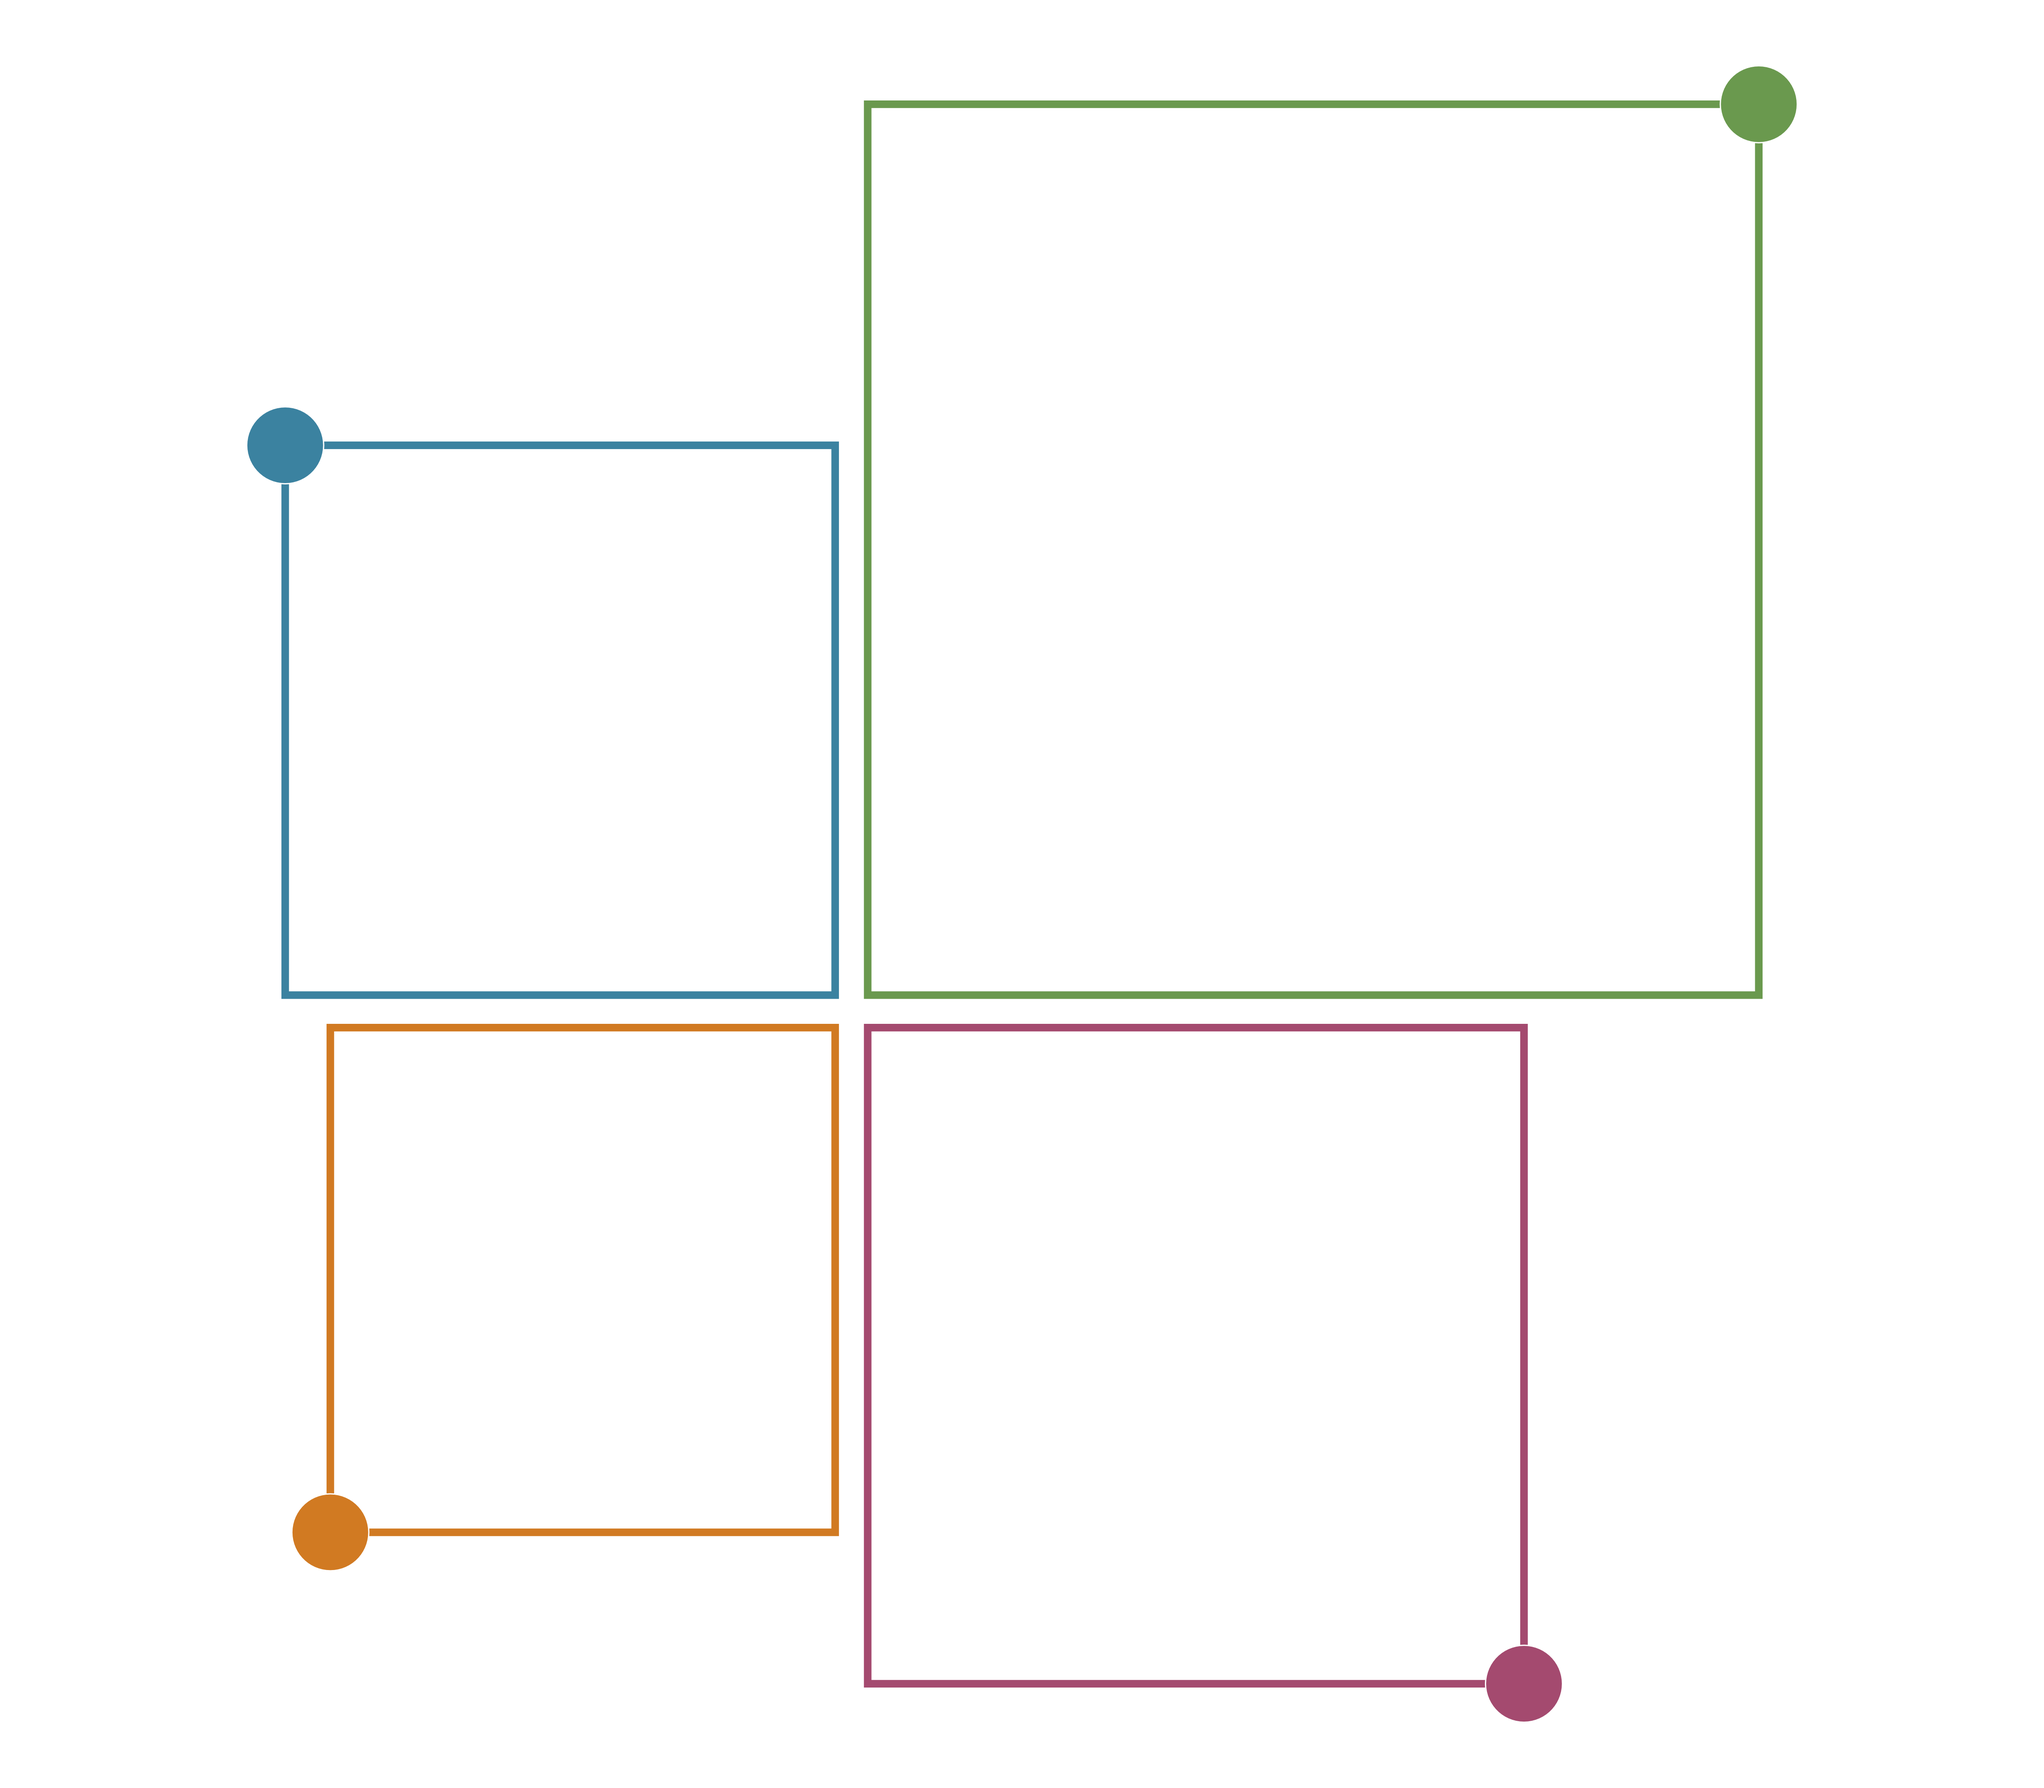
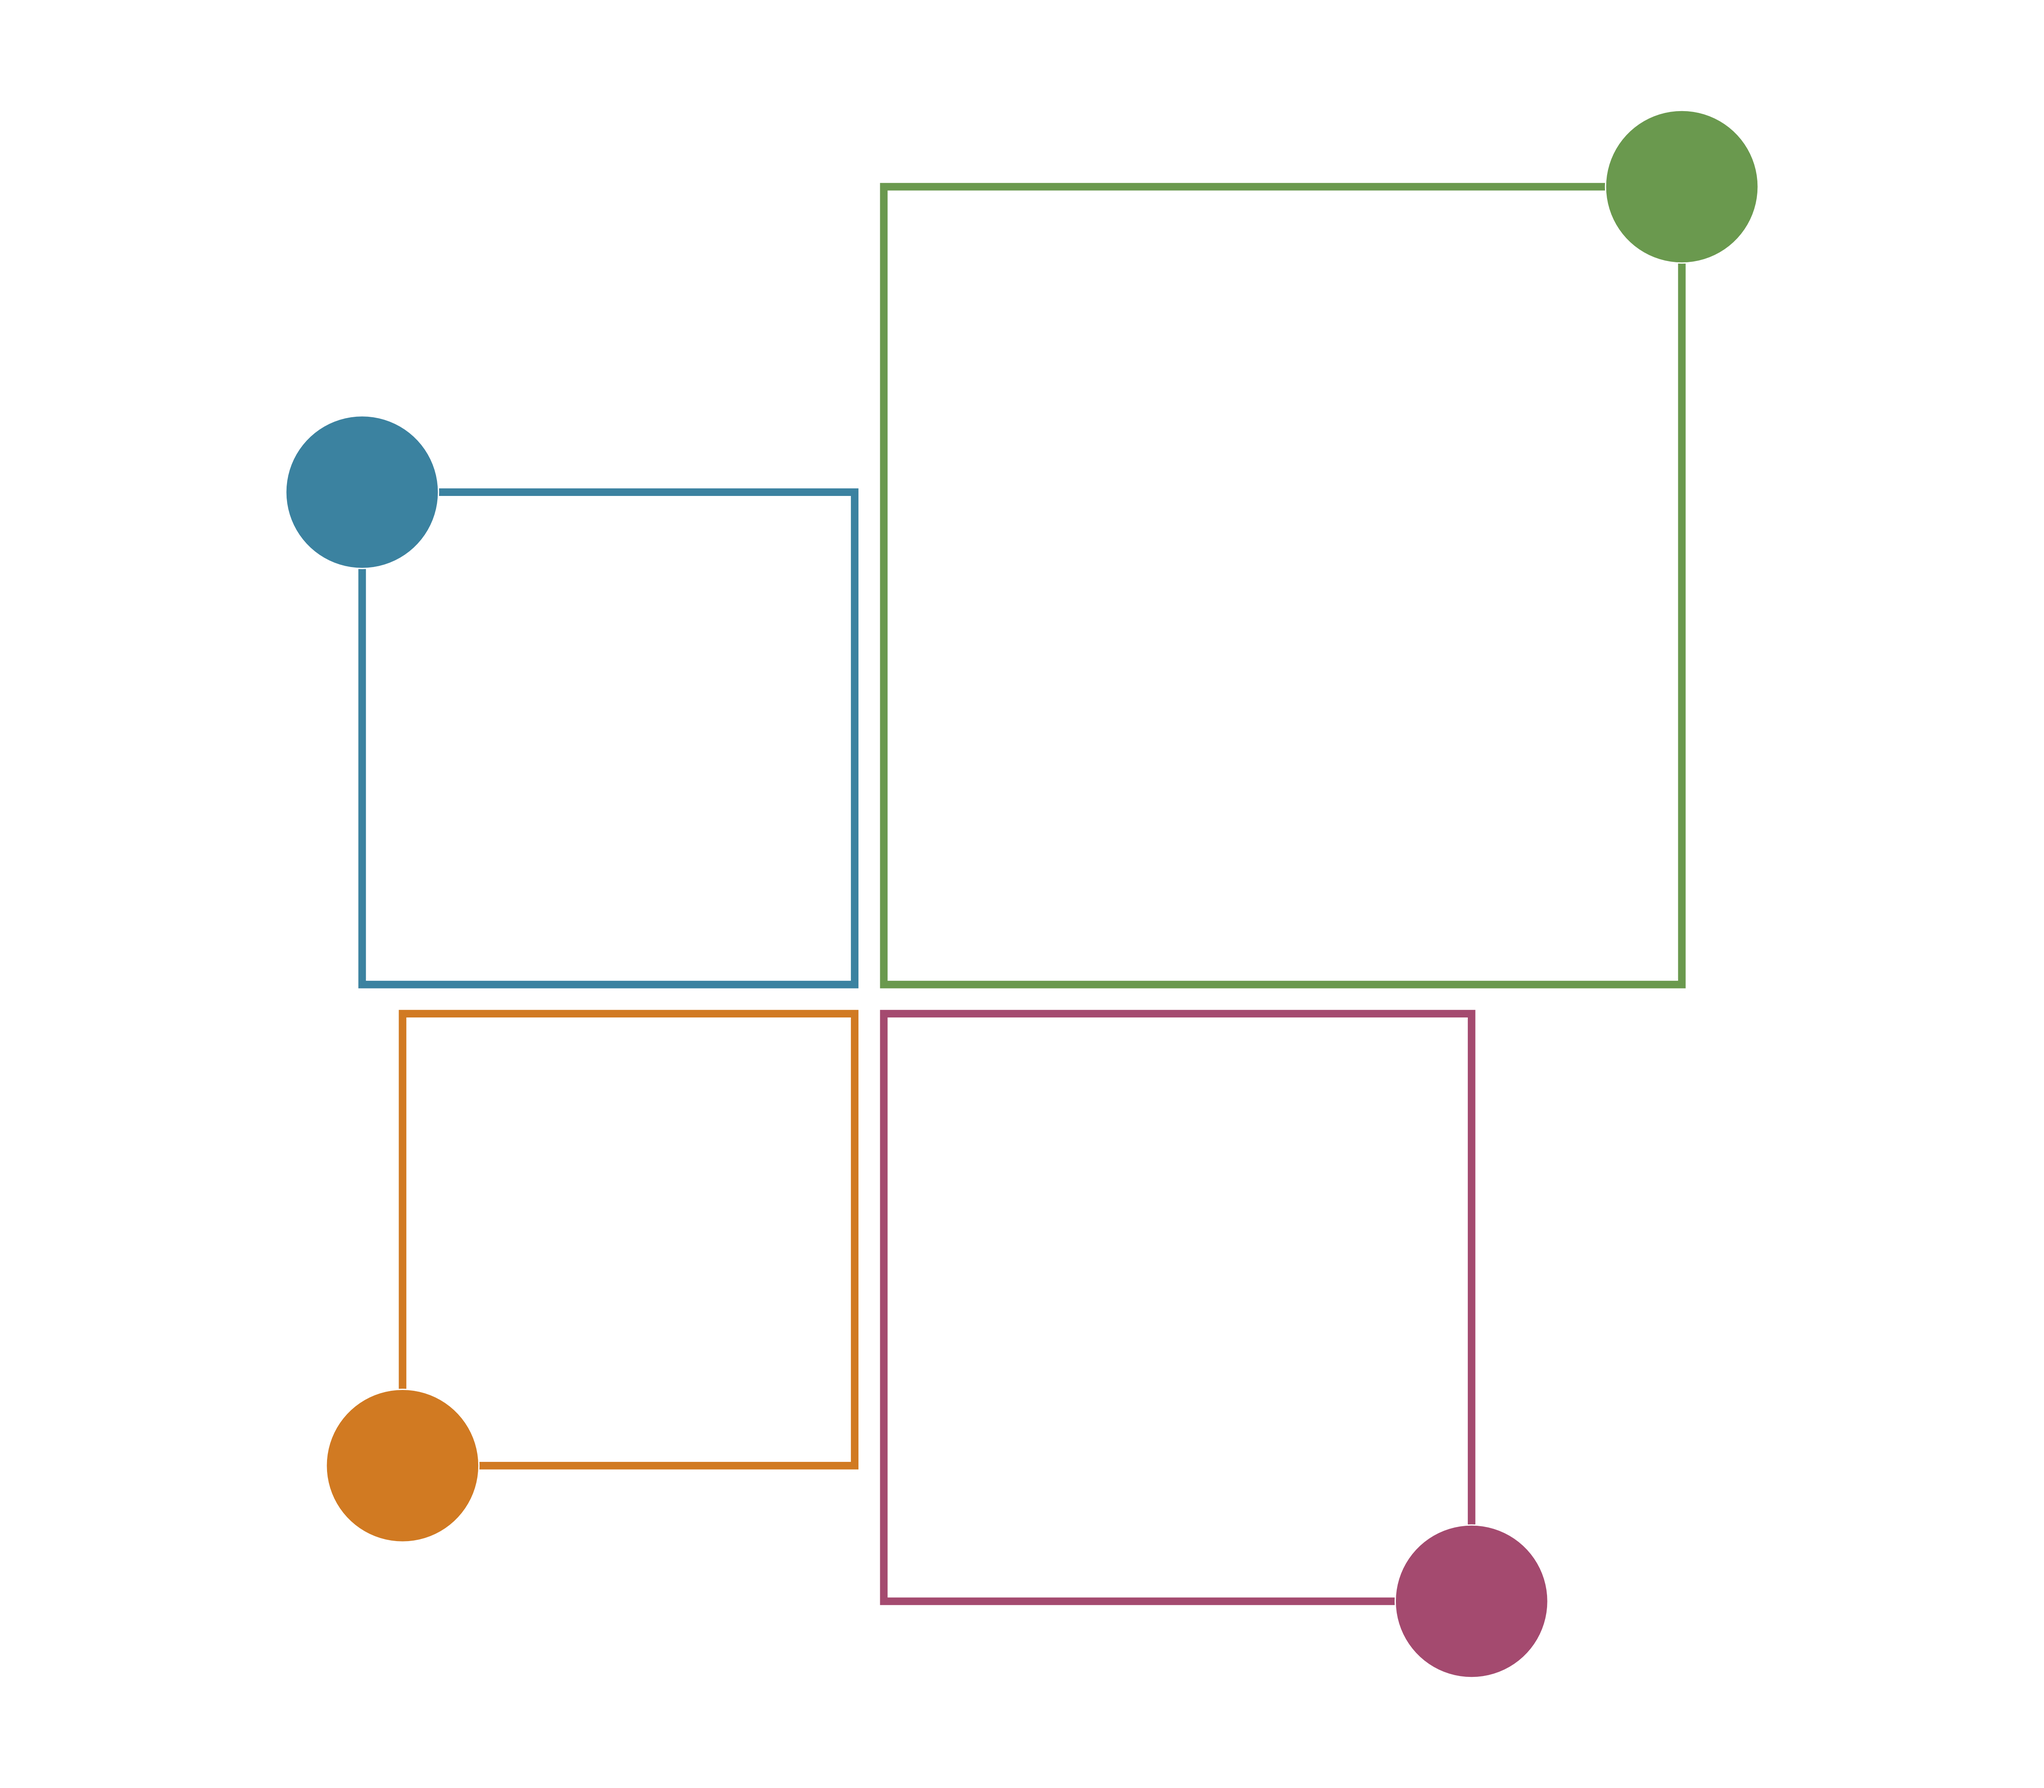
Deploying to gh-pages from @ hriisalu/rectangler@43adb80750088b9f6f18ad6957780608c4752595 🚀

Changed region(s): [[0.125, 0.0312, 0.875, 0.9669]]

diff --git a/articles/rectangler.html b/articles/rectangler.html
@@ -636,7 +636,7 @@ type.</p>
 <span>  <span class="fu"><a href="../reference/rect_annotation.html">rect_annotation</a></span><span class="op">(</span></span>
 <span>    label_col <span class="op">=</span> <span class="st">"annotation"</span>,</span>
 <span>    position <span class="op">=</span> <span class="st">"horizontal"</span>,</span>
-<span>    size <span class="op">=</span> <span class="fl">1</span>,</span>
+<span>    size <span class="op">=</span> <span class="fl">0.8</span>,</span>
 <span>    space <span class="op">=</span> <span class="fl">1</span></span>
 <span>  <span class="op">)</span></span></code></pre></div>
 <p><img src="figures/vignette-annotation-basic-1.png" class="r-plt" alt="" width="65%"></p>
@@ -669,7 +669,7 @@ size.</p>
 <span>  <span class="op">)</span> <span class="op"><a href="https://magrittr.tidyverse.org/reference/pipe.html" class="external-link">%&gt;%</a></span></span>
 <span>  <span class="fu"><a href="../reference/rect_label.html">rect_label</a></span><span class="op">(</span></span>
 <span>    label_col <span class="op">=</span> <span class="st">"label"</span>,</span>
-<span>    size <span class="op">=</span> <span class="fl">0.7</span></span>
+<span>    size <span class="op">=</span> <span class="fl">0.8</span></span>
 <span>  <span class="op">)</span></span>
 <span></span>
 <span><span class="fu"><a href="../reference/rect_plot4.html">rect_plot4</a></span><span class="op">(</span><span class="va">mydata</span>, value_col <span class="op">=</span> <span class="st">"value"</span><span class="op">)</span> <span class="op"><a href="https://magrittr.tidyverse.org/reference/pipe.html" class="external-link">%&gt;%</a></span></span>
@@ -698,7 +698,7 @@ size.</p>
 <span>  <span class="op">)</span> <span class="op"><a href="https://magrittr.tidyverse.org/reference/pipe.html" class="external-link">%&gt;%</a></span></span>
 <span>  <span class="fu"><a href="../reference/rect_shape.html">rect_shape</a></span><span class="op">(</span></span>
 <span>    position <span class="op">=</span> <span class="st">"corner"</span>,</span>
-<span>    size <span class="op">=</span> <span class="fl">1</span>,</span>
+<span>    size <span class="op">=</span> <span class="fl">2.5</span>,</span>
 <span>    fill_col <span class="op">=</span> <span class="st">"shape_fill"</span>,</span>
 <span>    border_colour <span class="op">=</span> <span class="st">"white"</span></span>
 <span>  <span class="op">)</span></span>
@@ -711,7 +711,7 @@ size.</p>
 <span>  <span class="op">)</span> <span class="op"><a href="https://magrittr.tidyverse.org/reference/pipe.html" class="external-link">%&gt;%</a></span></span>
 <span>  <span class="fu"><a href="../reference/rect_shape.html">rect_shape</a></span><span class="op">(</span></span>
 <span>    position <span class="op">=</span> <span class="st">"corner"</span>,</span>
-<span>    size <span class="op">=</span> <span class="fl">2.5</span>,</span>
+<span>    size <span class="op">=</span> <span class="fl">5</span>,</span>
 <span>    fill_col <span class="op">=</span> <span class="st">"shape_fill"</span>,</span>
 <span>    border_colour <span class="op">=</span> <span class="st">"white"</span></span>
 <span>  <span class="op">)</span></span></code></pre></div>
@@ -737,8 +737,8 @@ without being clipped.</p>
 <span>  <span class="fu"><a href="../reference/rect_annotation.html">rect_annotation</a></span><span class="op">(</span></span>
 <span>    label_col <span class="op">=</span> <span class="st">"annotation"</span>,</span>
 <span>    position <span class="op">=</span> <span class="st">"horizontal"</span>,</span>
-<span>    size <span class="op">=</span> <span class="fl">1</span>,</span>
-<span>    space <span class="op">=</span> <span class="fl">0.9</span></span>
+<span>    size <span class="op">=</span> <span class="fl">0.8</span>,</span>
+<span>    space <span class="op">=</span> <span class="fl">1.5</span></span>
 <span>  <span class="op">)</span></span></code></pre></div>
 <p><img src="figures/vignette-compare-annotation-space-1.png" class="r-plt" alt="" width="65%"></p>
 <div class="sourceCode" id="cb30"><pre class="downlit sourceCode r">
@@ -763,8 +763,8 @@ without being clipped.</p>
 <span>  <span class="fu"><a href="../reference/rect_annotation.html">rect_annotation</a></span><span class="op">(</span></span>
 <span>    label_col <span class="op">=</span> <span class="st">"annotation"</span>,</span>
 <span>    position <span class="op">=</span> <span class="st">"horizontal"</span>,</span>
-<span>    size <span class="op">=</span> <span class="fl">1</span>,</span>
-<span>    space <span class="op">=</span> <span class="fl">4</span></span>
+<span>    size <span class="op">=</span> <span class="fl">0.8</span>,</span>
+<span>    space <span class="op">=</span> <span class="fl">4.5</span></span>
 <span>  <span class="op">)</span></span></code></pre></div>
 <p><img src="figures/vignette-compare-annotation-long-space-1.png" class="r-plt" alt="" width="65%"></p>
 </div>

diff --git a/articles/rectangler.md b/articles/rectangler.md
@@ -675,7 +675,7 @@ rect_plot4(mydata, value_col = "value") %>%
   rect_annotation(
     label_col = "annotation",
     position = "horizontal",
-    size = 1,
+    size = 0.8,
     space = 1
   )
 ```
@@ -712,7 +712,7 @@ rect_plot4(mydata, value_col = "value") %>%
   ) %>%
   rect_label(
     label_col = "label",
-    size = 0.7
+    size = 0.8
   )
 
 rect_plot4(mydata, value_col = "value") %>%
@@ -743,7 +743,7 @@ rect_plot4(mydata, value_col = "value") %>%
   ) %>%
   rect_shape(
     position = "corner",
-    size = 1,
+    size = 2.5,
     fill_col = "shape_fill",
     border_colour = "white"
   )
@@ -756,7 +756,7 @@ rect_plot4(mydata, value_col = "value") %>%
   ) %>%
   rect_shape(
     position = "corner",
-    size = 2.5,
+    size = 5,
     fill_col = "shape_fill",
     border_colour = "white"
   )
@@ -786,8 +786,8 @@ rect_plot4(mydata, value_col = "value") %>%
   rect_annotation(
     label_col = "annotation",
     position = "horizontal",
-    size = 1,
-    space = 0.9
+    size = 0.8,
+    space = 1.5
   )
 ```
 
@@ -816,8 +816,8 @@ rect_plot4(mydata_space, value_col = "value") %>%
   rect_annotation(
     label_col = "annotation",
     position = "horizontal",
-    size = 1,
-    space = 4
+    size = 0.8,
+    space = 4.5
   )
 ```
 
